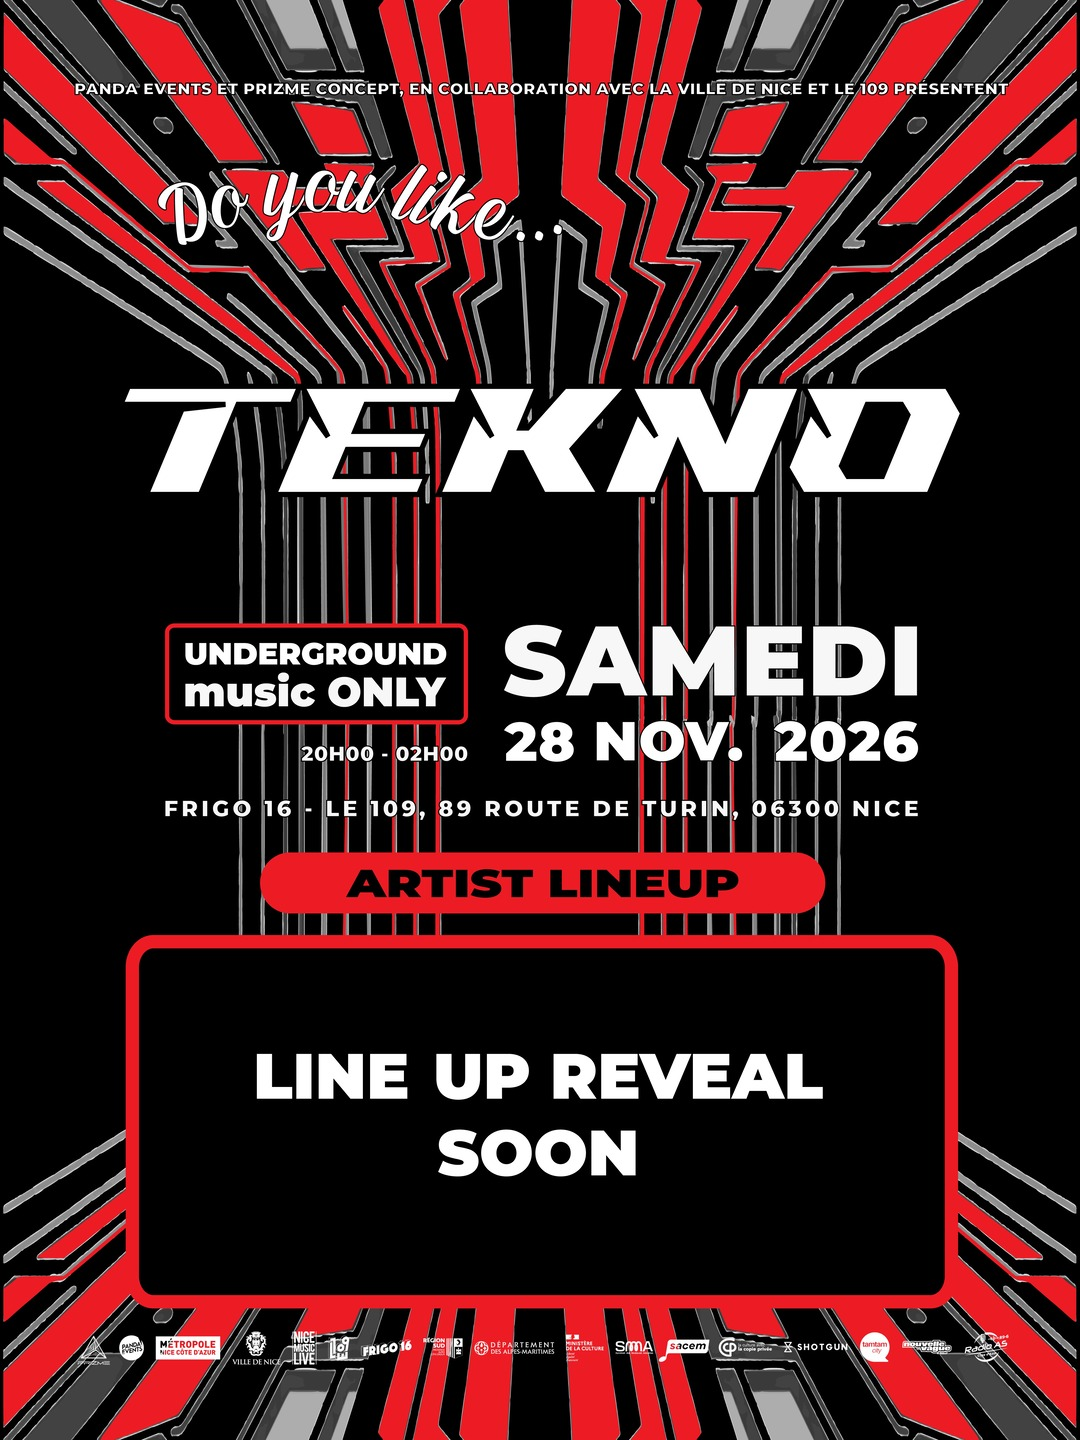
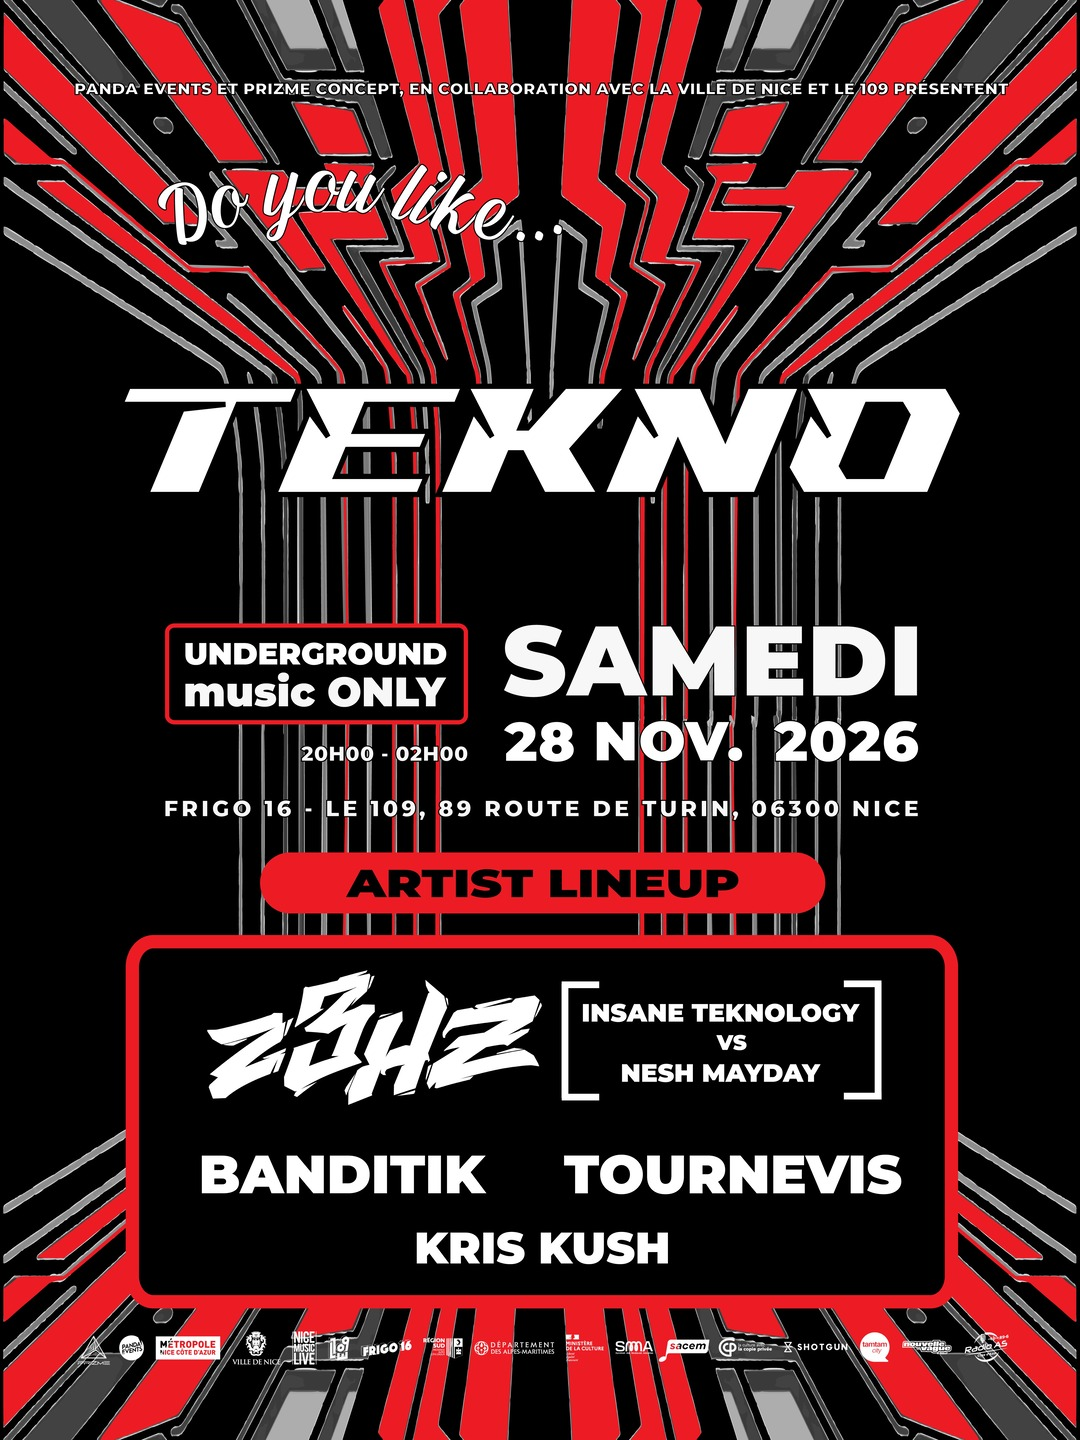
Concours Frigo 16 : visuel officiel du 28/11 (pack presse, line-up complet) sur la couverture, la slide Tekno et les stories ; line-up dans la légende ; toujours en attente de validation
Claude-Session: https://claude.ai/code/session_01UDWYmWuGkMKcV3nZgYu5nu

Changed region(s): [[0.1833, 0.6562, 0.8556, 0.875]]

diff --git a/media/posts-prets/2026-11-19-concours-frigo16/sources/visuels.html b/media/posts-prets/2026-11-19-concours-frigo16/sources/visuels.html
@@ -63,7 +63,7 @@ body{background:#000;font-family:IT,sans-serif;color:var(--creme)}
 <div class="v" id="s3" style="background:#1a0505">
  <div class="sign"><img src="logo.png">@teufy_official</div>
  <div style="position:absolute;left:56px;top:140px"><span class="etq">Sam. 28/11 · 20 h – 2 h</span></div>
- <img class="affiche" src="tekno.jpg" style="left:185px;top:230px;width:710px;height:820px;object-fit:cover;object-position:top;border-radius:26px">
+ <img class="affiche" src="tekno.jpg" style="left:213px;top:205px;width:654px;height:872px;object-fit:contain;border-radius:26px">
  <div class="carte" style="bottom:56px;padding:26px 36px"><span class="pill">Concours</span><div style="font-size:38px;font-weight:800;margin-top:14px">Commente&nbsp;<span style="color:var(--corail)">TEKNO</span></div></div>
 </div>
 
@@ -107,7 +107,7 @@ body{background:#000;font-family:IT,sans-serif;color:var(--creme)}
 <div class="v story" id="st-tekno"><img class="photo" src="tekno.jpg" style="filter:blur(26px) brightness(.45)">
  <div class="sign" style="top:250px"><img src="logo.png">@teufy_official</div>
  <div style="position:absolute;left:0;right:0;top:340px;text-align:center"><span class="etq" style="font-size:40px">Concours</span></div>
- <img class="affiche" src="tekno.jpg" style="left:170px;top:440px;width:740px;height:940px;object-fit:cover;object-position:top">
+ <img class="affiche" src="tekno.jpg" style="left:187px;top:440px;width:705px;height:940px;object-fit:contain">
  <div class="carte" style="top:1440px;text-align:center"><div class="titre" style="font-size:66px">Gagne tes places</div><div style="font-size:36px;font-weight:700;margin-top:12px">Abonne-toi aux 3 comptes + commente&nbsp;<span style="color:var(--corail)">TEKNO</span> sous notre post concours</div></div>
 </div>
 <div class="v story" id="st-rappel"><img class="photo" src="dj.jpg" style="filter:brightness(.45)">
